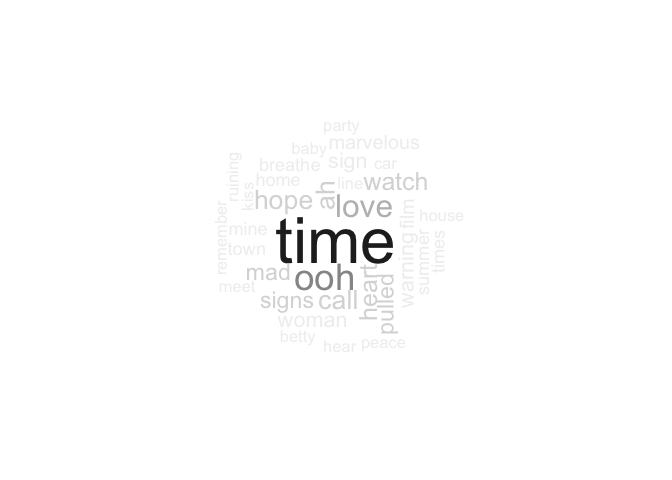
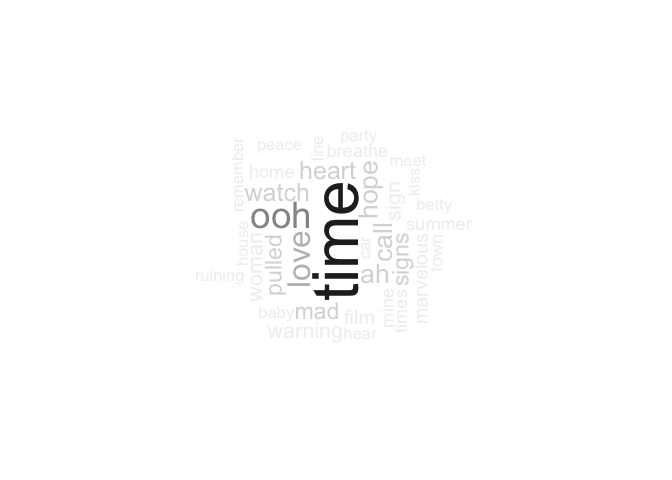
update word count analysis to include midnights album

Changed region(s): [[0.375, 0.3438, 0.625, 0.7188]]

diff --git a/swift_words.md b/swift_words.md
@@ -10,11 +10,8 @@ music. Finally, I calculated the **Term Frequency - Inverse Document
 Frequency**, or **TF-IDF**, to determine any key words in her lyrics
 that could describe the themes of her albums.
 
-**Key Findings**:
-- The most common words that Taylor Swift uses in her lyrics are "love", "time", and "baby". Musical sound effects such as "ooh" and "la" are also very common. "Time" is the most common word in 4 of her albums.
-- Words are repeated much more often in her poppier albums, *Red*, *1989*, *reputation*, and *Lover*.
-- There is un upward trend in lexical diversity with her first 3 albums. This started to decrease when she began transitioning to pop music with her 4th album, *Red*. Starting with *reputation*, there has been an upward trend in lexical diversity.
-- The words "grow", "trouble", and "daylight" describe the themes of the albums *Speak Now*, *Red*, and *Lover* the best based on their TF-IDF values.
+**NOTE:** Updated on 02/09/2023 to include Taylor’s new album,
+*Midnights*.
 
 ### 1.1 Loading Packages
 
@@ -67,13 +64,13 @@ visualizations.
 
 ``` r
 # Create a vector of the album titles
-album.list <- factor(c("Taylor Swift", "Fearless", "Speak Now", "Red", "1989", "reputation", "Lover", "folklore", "evermore"))
+album.list <- factor(c("Taylor Swift", "Fearless", "Speak Now", "Red", "1989", "reputation", "Lover", "folklore", "evermore", "Midnights"))
 
 # Create a vector of color palettes associated with each album aesthetic
-palette = c("GnBu", "YlOrBr", "Purples", "Reds", "YlGnBu", "Greens", "RdPu", "Greys", "OrRd")
+palette = c("GnBu", "YlOrBr", "Purples", "Reds", "YlGnBu", "Greens", "RdPu", "Greys", "OrRd", "BuGn")
 
 # Create a vector of color codes associated with each album aesthetic
-colors = c("#366E84", "#D9C78F", "#462245", "#A02B48", "#CDC6AC", "#333333", "#CC6B96", "#BABABA", "#67230E")
+colors = c("#366E84", "#D9C78F", "#462245", "#A02B48", "#CDC6AC", "#333333", "#CC6B96", "#BABABA", "#67230E", "#154E52")
 ```
 
 ## 2. Lyrics Exploration
@@ -108,23 +105,22 @@ wordcloud(words = word.count$word,
           colors = brewer.pal(8, "Dark2"))
 ```
 
-![](images/swift_words_files/figure-gfm/unnamed-chunk-5-1.png)<!-- -->
+![](swift_words_files/figure-gfm/unnamed-chunk-5-1.png)<!-- -->
 
-The words **“love”**, **“time”**, and **“baby”** are some of the most
-frequenct words in Taylor’s music, as seen by the large size of the
-these words in the word cloud. Most of her music are about love and
+The words **“love”**, **“time”**, **“yeah”**, and **“baby”** are some of
+the most frequent words in Taylor’s music, as seen by the large size of
+the these words in the word cloud. Most of her music are about love and
 relationships, so it’s no surprise that these words appear in her lyrics
-quite frequently.
+the most.
 
 The word **“ooh”** is also frequent in her lyrics, but this word is
-commonly used as a musical effect and doesn’t really mean anything
-significant in the English language.
+commonly used as a musical effect.
 
 ### 2.2 Word Frequency Plot
 
 For a more informative visual, I plotted the top 15 most frequent words.
-The word **“love”** appears 233 times, followed by **“time”** which
-appears 203 times.
+The word **“love”** appears 251 times, followed by **“time”** which
+appears 226 times.
 
 ``` r
 # Bar plot of word counts
@@ -137,7 +133,7 @@ ggplot(data = word.count[1:15,], aes(x = reorder(word, -n), y = n)) +
     theme(axis.text=element_text(size=12), axis.title=element_text(size=12), axis.text.x = element_text(angle = 45))
 ```
 
-![](images/swift_words_files/figure-gfm/unnamed-chunk-6-1.png)<!-- -->
+![](swift_words_files/figure-gfm/unnamed-chunk-6-1.png)<!-- -->
 
 ``` r
 # View the top 5 most common words
@@ -145,11 +141,11 @@ word.count[1:5, ]
 ```
 
     ##   word   n
-    ## 1 love 233
-    ## 2 time 203
-    ## 3  ooh 195
-    ## 4 baby 131
-    ## 5 yeah 130
+    ## 1 love 251
+    ## 2 time 226
+    ## 3  ooh 202
+    ## 4 yeah 151
+    ## 5 baby 134
 
 ### 2.3 Lexical Diversity
 
@@ -160,25 +156,27 @@ years. Using a
 from *DataCamp*, I was able to plot the lexical diversity of Taylor’s
 music over time.
 
-However, I first need to add the release dates of her albums in a new
-column called **release_date**.
+First, I need to add the release dates of her albums in a new column
+called **release_date**.
 
 ``` r
 # Create a vector of release dates
 dates <- c("2006-10-24", "2008-11-11", "2010-10-25", "2012-10-22", "2014-10-27",
-                   "2017-11-10", "2019-08-23", "2020-07-24", "2020-12-11")
+           "2017-11-10", "2019-08-23", "2020-07-24", "2020-12-11", "2022-10-21")
 
 # Create empty release_date column
 df$release_date <- NA
 
 # Iterate through the dataframe to add the release date to the corresponding album 
-for (i in 1:9) {
+for (i in 1:10) {
   df[df$Album == album.list[i], "release_date"] = dates[i]
 }
 
 # Change release date to a Date type
 df$release_date <- as.Date(df$release_date)
 ```
+
+Next, I followed the tutorial to plot the lexical diversity graph.
 
 ``` r
 # Obtain lexical diversity
@@ -207,28 +205,36 @@ diversity_plot <- lex_diversity %>%
 diversity_plot
 ```
 
-![](images/swift_words_files/figure-gfm/unnamed-chunk-9-1.png)<!-- -->
+![](swift_words_files/figure-gfm/unnamed-chunk-9-1.png)<!-- -->
 
 ``` r
 # View highest and lowest lexical diversity values
-head(lex_diversity, 1)
+head(lex_diversity, 5)
 ```
 
-    ## # A tibble: 1 × 3
-    ## # Groups:   release_date [1]
-    ##   release_date Song         lex_diversity
-    ##   <date>       <fct>                <int>
-    ## 1 2012-10-22   All Too Well           199
+    ## # A tibble: 5 × 3
+    ## # Groups:   release_date [5]
+    ##   release_date Song           lex_diversity
+    ##   <date>       <chr>                  <int>
+    ## 1 2012-10-22   All Too Well             199
+    ## 2 2017-11-10   End Game                 196
+    ## 3 2014-10-27   Blank Space              180
+    ## 4 2022-10-21   Hits Different           177
+    ## 5 2020-12-11   happiness                170
 
 ``` r
-tail(lex_diversity, 1)
+tail(lex_diversity, 5)
 ```
 
-    ## # A tibble: 1 × 3
-    ## # Groups:   release_date [1]
+    ## # A tibble: 5 × 3
+    ## # Groups:   release_date [3]
     ##   release_date Song                   lex_diversity
-    ##   <date>       <fct>                          <int>
-    ## 1 2006-10-24   A Perfectly Good Heart            66
+    ##   <date>       <chr>                          <int>
+    ## 1 2006-10-24   A Place In This World             80
+    ## 2 2006-10-24   Invisible                         78
+    ## 3 2022-10-21   Labyrinth                         75
+    ## 4 2020-07-24   epiphany                          71
+    ## 5 2006-10-24   A Perfectly Good Heart            66
 
 As shown by the plot, Taylor’s lyrical diversity has increased since her
 first album in 2006. However, there was a decrease in lexical diversity
@@ -240,6 +246,10 @@ Her most lyrically diverse song is *All Too Well* with 199 unique words,
 while her least lyrically diverse song is *A Perfectly Good Heart* with
 66 unique words. Many critics and fans consider *All Too Well* to be
 Taylor’s best song due to its storytelling.
+
+Although not included here, *All Too Well (10 Minute Version)* from
+Taylor’s re-recording of *Red* contains the original lyrics plus a few
+extra verses, which would make it her most lyrically diverse song.
 
 ## 3. Lyrics Exploration by Album
 
@@ -276,12 +286,12 @@ get.word.cloud <- function(df, palette) {
 
 ``` r
 # Apply function for each album
-for (i in 1:9) {
+for (i in 1:10) {
   get.word.cloud(df[df$Album == album.list[i],], palette[i])
 }
 ```
 
-<img src="images/swift_words_files/figure-gfm/unnamed-chunk-12-1.png" width="33%" /><img src="images/swift_words_files/figure-gfm/unnamed-chunk-12-2.png" width="33%" /><img src="images/swift_words_files/figure-gfm/unnamed-chunk-12-3.png" width="33%" /><img src="images/swift_words_files/figure-gfm/unnamed-chunk-12-4.png" width="33%" /><img src="images/swift_words_files/figure-gfm/unnamed-chunk-12-5.png" width="33%" /><img src="images/swift_words_files/figure-gfm/unnamed-chunk-12-6.png" width="33%" /><img src="images/swift_words_files/figure-gfm/unnamed-chunk-12-7.png" width="33%" /><img src="images/swift_words_files/figure-gfm/unnamed-chunk-12-8.png" width="33%" /><img src="images/swift_words_files/figure-gfm/unnamed-chunk-12-9.png" width="33%" />
+<img src="swift_words_files/figure-gfm/unnamed-chunk-12-1.png" width="50%" /><img src="swift_words_files/figure-gfm/unnamed-chunk-12-2.png" width="50%" /><img src="swift_words_files/figure-gfm/unnamed-chunk-12-3.png" width="50%" /><img src="swift_words_files/figure-gfm/unnamed-chunk-12-4.png" width="50%" /><img src="swift_words_files/figure-gfm/unnamed-chunk-12-5.png" width="50%" /><img src="swift_words_files/figure-gfm/unnamed-chunk-12-6.png" width="50%" /><img src="swift_words_files/figure-gfm/unnamed-chunk-12-7.png" width="50%" /><img src="swift_words_files/figure-gfm/unnamed-chunk-12-8.png" width="50%" /><img src="swift_words_files/figure-gfm/unnamed-chunk-12-9.png" width="50%" /><img src="swift_words_files/figure-gfm/unnamed-chunk-12-10.png" width="50%" />
 
 The first thing I noticed is that the word clouds for *1989* and
 *folklore* are smaller compared to the rest. This may be due to the fact
@@ -291,8 +301,8 @@ the words in the album.
 For *Fearless*, *Red*, *reputation*, *Lover*, and *evermore*, the most
 common words are either **“la”**, **“ooh”**, or **“di”**, which are
 musical effects rather than actual words. Her self-titled album appears
-to have the least amount of these words. Both *Speak Now* and *folklore*
-have **“time”** as the most frequent word.
+to have the least amount of these words. Both *Speak Now*, *folklore*,
+and *Midnights* have **“time”** as the most frequent word.
 
 ### 3.2 Word Frequency by Album
 
@@ -325,29 +335,30 @@ get.bar.plot <- function(df, color) {
 
 ``` r
 # Apply bar plot function to each album
-for (i in 1:9) {
+for (i in 1:10) {
   get.bar.plot(df[df$Album == album.list[i],], colors[i])
 }
 ```
 
-<img src="images/swift_words_files/figure-gfm/unnamed-chunk-14-1.png" width="50%" /><img src="images/swift_words_files/figure-gfm/unnamed-chunk-14-2.png" width="50%" /><img src="images/swift_words_files/figure-gfm/unnamed-chunk-14-3.png" width="50%" /><img src="images/swift_words_files/figure-gfm/unnamed-chunk-14-4.png" width="50%" /><img src="images/swift_words_files/figure-gfm/unnamed-chunk-14-5.png" width="50%" /><img src="images/swift_words_files/figure-gfm/unnamed-chunk-14-6.png" width="50%" /><img src="images/swift_words_files/figure-gfm/unnamed-chunk-14-7.png" width="50%" /><img src="images/swift_words_files/figure-gfm/unnamed-chunk-14-8.png" width="50%" /><img src="images/swift_words_files/figure-gfm/unnamed-chunk-14-9.png" width="50%" />
+<img src="swift_words_files/figure-gfm/unnamed-chunk-14-1.png" width="50%" /><img src="swift_words_files/figure-gfm/unnamed-chunk-14-2.png" width="50%" /><img src="swift_words_files/figure-gfm/unnamed-chunk-14-3.png" width="50%" /><img src="swift_words_files/figure-gfm/unnamed-chunk-14-4.png" width="50%" /><img src="swift_words_files/figure-gfm/unnamed-chunk-14-5.png" width="50%" /><img src="swift_words_files/figure-gfm/unnamed-chunk-14-6.png" width="50%" /><img src="swift_words_files/figure-gfm/unnamed-chunk-14-7.png" width="50%" /><img src="swift_words_files/figure-gfm/unnamed-chunk-14-8.png" width="50%" /><img src="swift_words_files/figure-gfm/unnamed-chunk-14-9.png" width="50%" /><img src="swift_words_files/figure-gfm/unnamed-chunk-14-10.png" width="50%" />
 
 When excluding meaningless words such as “ooh”, “la”, etc., the most
 common words in each album are:
 
-1.  *Taylor Swift* - “wanna”, “beautiful”, “baby”
-2.  *Fearless* - “time”, “baby”, “fall”
-3.  *Speak Now* - “time”, “love”, “grow”
-4.  *Red* - “time”, “stay”, “yeah”
-5.  *1989* - “love”, “shake”, “baby”
-6.  *reputation* - “baby”, “wanna”, “time”
-7.  *Lover* - “daylight”, “love”, “wanna”
-8.  *folklore* - “time”, “love”, “call”
-9.  *evermore* - “left”, “time”, “love”
+1.  ***Taylor Swift*** - “wanna”, “beautiful”, “baby”
+2.  ***Fearless*** - “time”, “baby”, “fall”
+3.  ***Speak Now*** - “time”, “love”, “grow”
+4.  ***Red*** - “time”, “stay”, “yeah”
+5.  ***1989*** - “love”, “shake”, “baby”
+6.  ***reputation*** - “baby”, “wanna”, “time”
+7.  ***Lover*** - “daylight”, “love”, “wanna”
+8.  ***folklore*** - “time”, “love”, “call”
+9.  ***evermore*** - “left”, “time”, “love”
+10. ***Midnights*** - “time”, “yeah”, “karma”
 
-Word such as **“time”**, **“love”**, and **“baby”** appear frequently in
-all her albums. Interestingly enough, **“time”** is the most frequent
-word in 4 of her albums, but **“love”** is more frequent when it comes
+Words such as **“time”**, **“love”**, and **“baby”** appear frequently
+in all her albums. Interestingly enough, **“time”** is the most frequent
+word in 5 of her albums, but **“love”** is more frequent when it comes
 to her overall lyrics, as seen by the word cloud in section 2.1.
 
 The repetition of words are highest with *1989*, *Red*, *reputation*,
@@ -355,14 +366,18 @@ and *Lover* (her pop albums) with words counts from the 50s to the 80s.
 It is lowest with her self-titled album, where the most frequent word
 occurs less than 20 times.
 
-Some of the words are hevily influenced by a single song such as
-**“stay”** with *Stay Stay Stay* and **“shake”** with *Shake It Off*.
+Some of the words are heavily influenced by a single song such as
+**“stay”** in *Stay Stay Stay*, **“shake”** in *Shake It Off*, and
+**“karma”** in *Karma*.
+
+*Midnights* is the only album to have a curse word in the top 15 most
+common words.
 
 ### 3.3 TF-IDF
 
 Since the most frequent words in each of her albums are not that much
 different from each other, I wanted to see if there is a word that can
-decribe a particular album the most within the lyrics of that album. By
+describe a particular album the most within the lyrics of that album. By
 calculating the **TF-IDF**, I can see the importance of the words and
 assign a key word for each album.
 
@@ -390,38 +405,40 @@ head(tf.idf)
 top.tf.idf <- tf.idf %>% group_by(Album) %>% top_n(5, tf_idf)
 
 # Plot the top 5 highest TF-IDF values per album
-for (i in 1:9) {
+for (i in 1:10) {
   p <- ggplot(top.tf.idf[top.tf.idf$Album == album.list[i], ], 
-         aes(x = reorder(word, -tf_idf), y = tf_idf)) + 
-  geom_bar(stat = "identity", fill = colors[i]) + 
-  xlab("Word") + 
-  ylab("TF-IDF") +
-  ggtitle(album.list[i]) +
-  theme_classic()
+    aes(x = reorder(word, -tf_idf), y = tf_idf)) + 
+    geom_bar(stat = "identity", fill = colors[i]) + 
+    xlab("Word") + 
+    ylab("TF-IDF") +
+    ggtitle(album.list[i]) +
+    theme_classic() + 
+    geom_text(aes(label = round(tf_idf, 3)), vjust = 1.5, color = "white")
   
   print(p)
 }
 ```
 
-<img src="images/swift_words_files/figure-gfm/unnamed-chunk-16-1.png" width="50%" /><img src="images/swift_words_files/figure-gfm/unnamed-chunk-16-2.png" width="50%" /><img src="images/swift_words_files/figure-gfm/unnamed-chunk-16-3.png" width="50%" /><img src="images/swift_words_files/figure-gfm/unnamed-chunk-16-4.png" width="50%" /><img src="images/swift_words_files/figure-gfm/unnamed-chunk-16-5.png" width="50%" /><img src="images/swift_words_files/figure-gfm/unnamed-chunk-16-6.png" width="50%" /><img src="images/swift_words_files/figure-gfm/unnamed-chunk-16-7.png" width="50%" /><img src="images/swift_words_files/figure-gfm/unnamed-chunk-16-8.png" width="50%" /><img src="images/swift_words_files/figure-gfm/unnamed-chunk-16-9.png" width="50%" />
+<img src="swift_words_files/figure-gfm/unnamed-chunk-16-1.png" width="50%" /><img src="swift_words_files/figure-gfm/unnamed-chunk-16-2.png" width="50%" /><img src="swift_words_files/figure-gfm/unnamed-chunk-16-3.png" width="50%" /><img src="swift_words_files/figure-gfm/unnamed-chunk-16-4.png" width="50%" /><img src="swift_words_files/figure-gfm/unnamed-chunk-16-5.png" width="50%" /><img src="swift_words_files/figure-gfm/unnamed-chunk-16-6.png" width="50%" /><img src="swift_words_files/figure-gfm/unnamed-chunk-16-7.png" width="50%" /><img src="swift_words_files/figure-gfm/unnamed-chunk-16-8.png" width="50%" /><img src="swift_words_files/figure-gfm/unnamed-chunk-16-9.png" width="50%" /><img src="swift_words_files/figure-gfm/unnamed-chunk-16-10.png" width="50%" />
 
-The words with the highest TF-IDF value for *Speak Now* (**“grow”**),
-*Red* (**“trouble”**), and *Lover* (**“daylight”**) capture the themes
-of their corresponding album the most. For words within the top 5,
-**“princess”** and **“getaway”** captures the themes of *Fearless* and
-*reputation*, respectively.
+Overall, TF-IDF values for the words are very low, with the maximum
+being 0.019. The words with the highest TF-IDF value for *Speak Now*
+(**“grow”**), *Red* (**“trouble”**), and *Lover* (**“daylight”**)
+capture the themes of their corresponding album the most. For words
+within the top 5, **“princess”** and **“getaway”** captures the themes
+of *Fearless* and *reputation*, respectively.
 
 In my opinion, none of the words within the top 5 highest TF-IDF score
-can sufficiently decribe the themes of her albums *Taylor Swift*,
-*1989*, *folklore*, and *evermore*.
+can sufficiently describe the themes of her albums *Taylor Swift*,
+*1989*, *folklore*, *evermore*, and *Midnights*.
 
 ## 4. Conclusion
 
 This section focused on analyzing the word frequencies of Taylor Swift’s
 lyrics. Some of the most common words she uses in her lyrics are
-**“love”**, **“time”**, and **“baby”**. Although these results were
-expected as she often writes about love and relationships, it was still
-interesting to look at it from a quantitative perspective.
+**“love”**, **“time”**, **“yeah”**, and **“baby”**. Although these
+results were expected as she often writes about love and relationships,
+it was still interesting to look at it from a quantitative perspective.
 
 Musical sound effects such as **“ooh”** and **“la”** were also common.
 The sound effect **“di”** appears 54 times from a single song: *I Did
@@ -431,9 +448,9 @@ alternative albums. The words **“grow”**, **“trouble”**, and
 **“daylight”** describe the themes of the albums *Speak Now*, *Red*, and
 *Lover*, respectively, based on their TF-IDF values.
 
-When it comes to lexical diversity, her vocabulary began to vary more since
+When it comes lexical diversity, her vocabulary began to vary more since
 her first album in 2006 but decreased when she transitioned into pop
-music. Since her 6th album, *reputation* (2017), there has been an
+music. Since her 6th album, *reputation* in 2017, there has been an
 upward trend in lexical diversity.
 
 Time of the day was a common theme in Swift’s lyrics, with words such as
@@ -442,6 +459,6 @@ throughout her albums. I think it would be interesting to see how
 frequent a specific theme of words (e.g., colors) appears in her lyrics.
 It would also be interesting to see how other features of her music,
 such as the Spotify features, are associated with these results. For
-example, is there a relationship between a song’s popularity and lexical
+example, is there a relationship between a song’s length and lexical
 diversity? Merging the Spotify features with the lyrics dataset could
 lead into more insights to her music.
